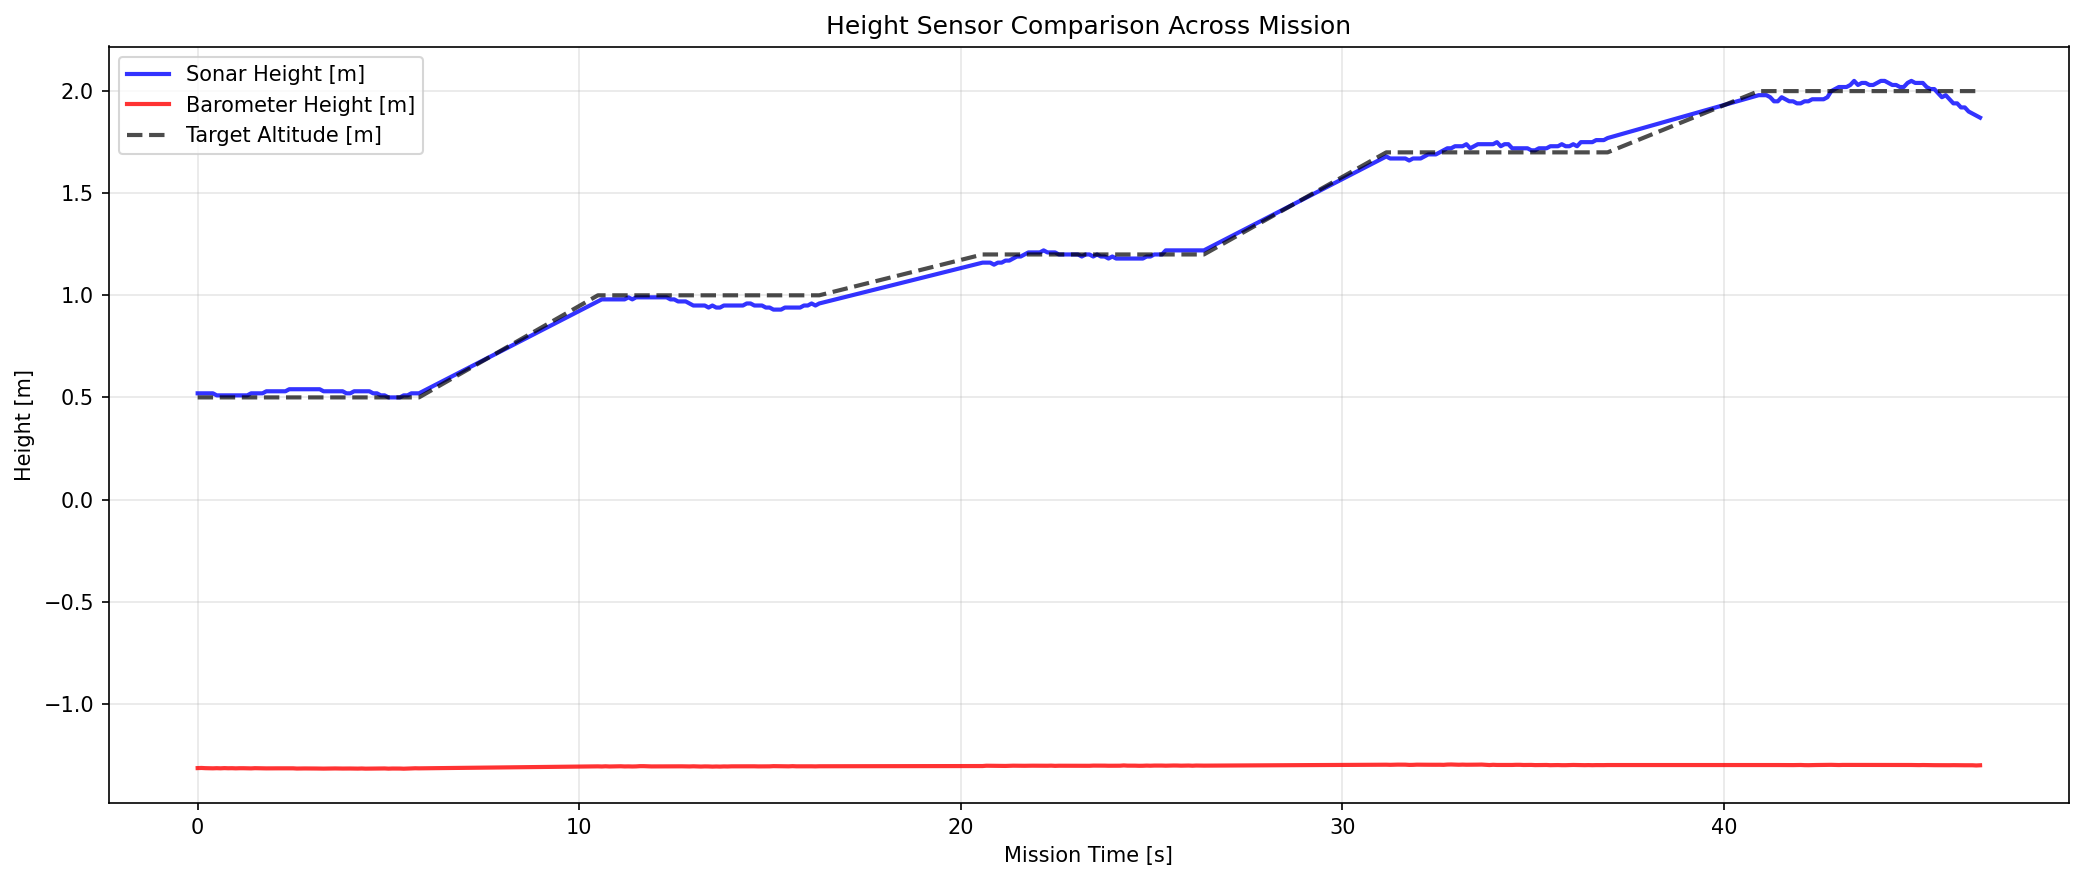
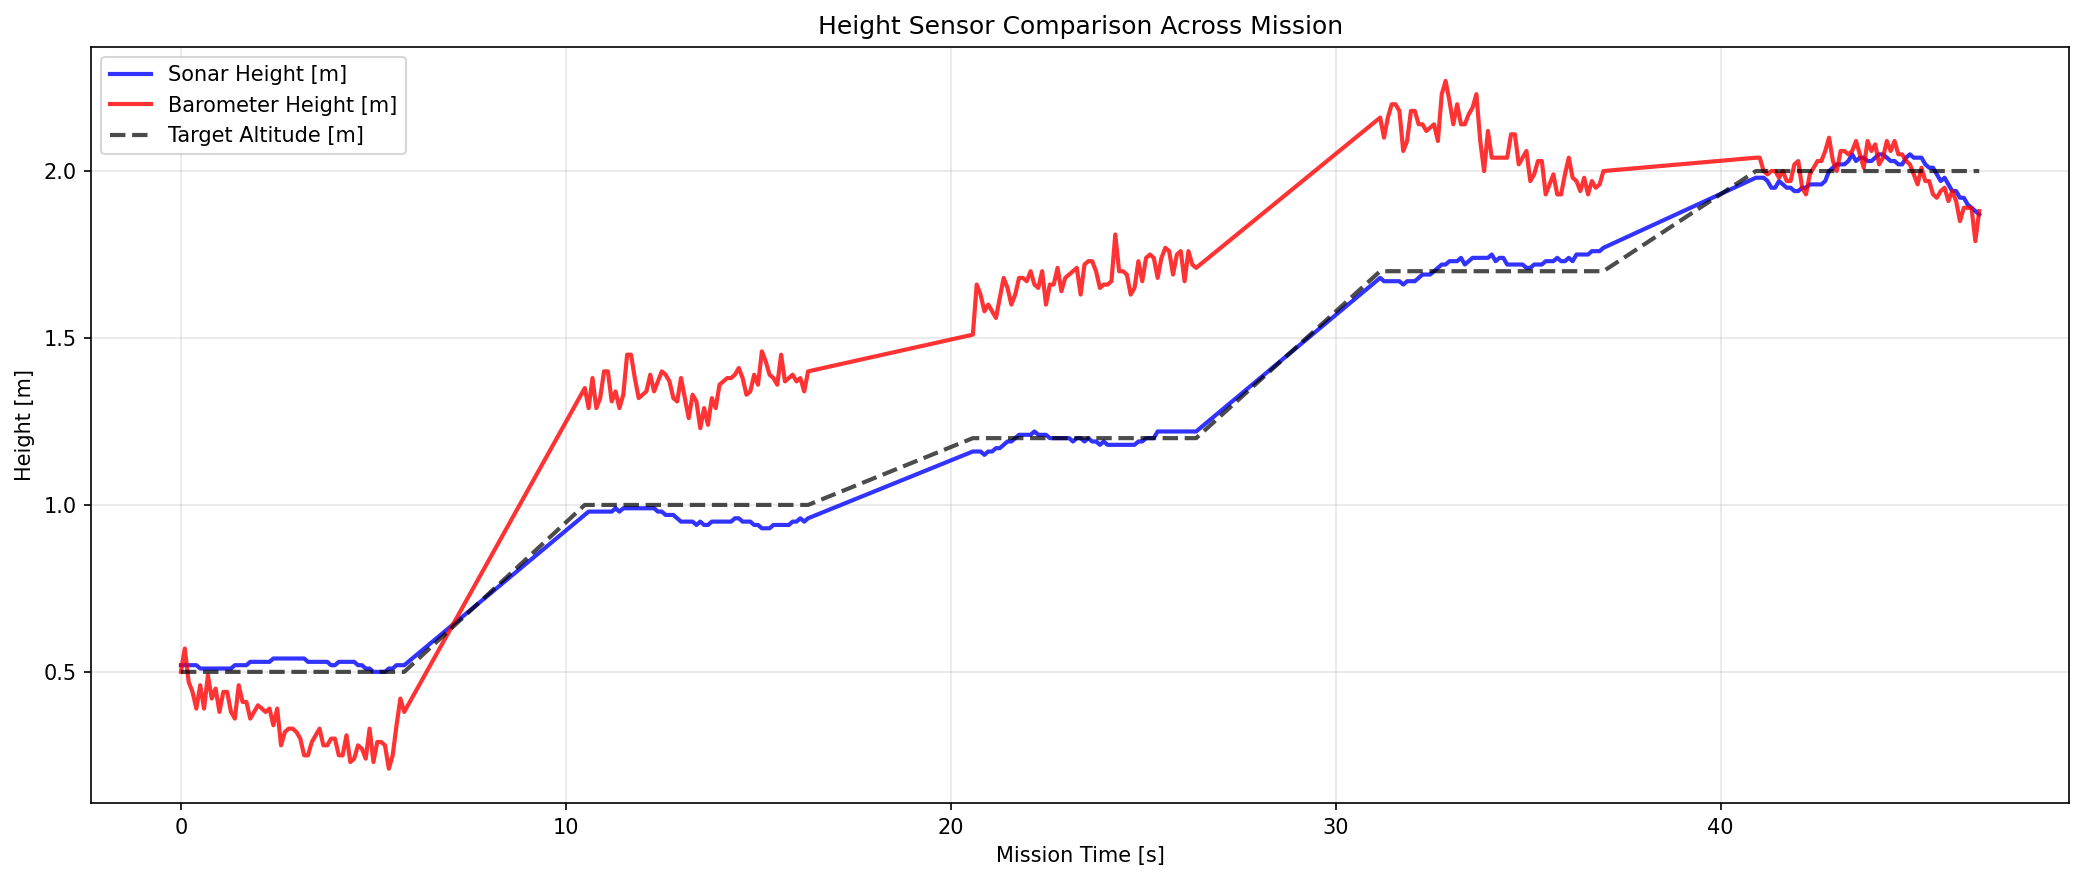
everything should be finsihed now

diff --git a/lab1/analyze_sensor_data.py b/lab1/analyze_sensor_data.py
@@ -74,15 +74,14 @@ def calculate_noise_level(signal, detrend_window=None):
             window_size = signal_length // 10
         else:
             window_size = detrend_window
-        padded_signal = np.zeros((100,))
-        padded_signal = np.append(padded_signal,signal)
-        padded_signal = np.append(padded_signal,np.zeros((100,)))
+        padding = np.zeros((window_size,))
+        padded_signal = np.hstack((padding,signal,padding))
         v = 1/signal_length * np.ones((window_size,))
-        trend = np.convolve(v,signal,'same')
+        trend = np.convolve(v,padded_signal,'same')
 
-        detrended_signal = signal-trend
+        detrended_signal = padded_signal-trend
 
-        return np.std(detrended_signal)
+        return np.std(detrended_signal[window_size:-1-window_size])
 
 
 def calculate_drift_rate(timestamps, signal):
@@ -198,8 +197,41 @@ def compare_height_sensors(height_sonar, height_baro, target_altitudes):
         sonar_rmse: RMS error vs targets for sonar
         baro_rmse: RMS error vs targets for barometer
     """
-    # TODO: Implement sensor comparison
-    return 0.0, 1.0, 0.0, 0.0, 0.0, 0.0
+
+    # remove nans
+    to_remove = []
+    num_sonar_invalid=0
+    num_baro_invalid=0
+    len_sonar = len(height_sonar)
+    len_baro = len(height_baro)
+    for idx, val in enumerate(height_baro):
+        if np.isinf(val):
+            to_remove.append(idx)
+            num_baro_invalid +=1
+
+    for idx, val in enumerate(height_sonar):
+        if np.isinf(val):
+            to_remove.append(idx)
+            num_sonar_invalid+=1
+
+    height_sonar = np.delete(height_sonar, to_remove)
+    height_baro = np.delete(height_baro, to_remove)
+    target_altitudes = np.delete(target_altitudes,to_remove)
+
+    # correlation
+    corr = np.corrcoef(height_sonar,height_baro*100)
+    # bias
+    bias = np.mean(height_baro*100-height_sonar)
+
+    # dropout
+    sonar_dropout = num_sonar_invalid/len_sonar
+    baro_dropout = num_baro_invalid/len_baro
+
+    #RMSE
+    sonar_rmse = np.sqrt(np.mean((height_sonar-target_altitudes)**2))
+    baro_rmse = np.sqrt(np.mean((height_baro*100 - target_altitudes) ** 2))
+
+    return bias, corr[0,1], sonar_dropout, baro_dropout, sonar_rmse, baro_rmse
 
 # ============================================================================
 # PROVIDED: Data loading and plotting code
@@ -226,7 +258,7 @@ def main():
         
         # 3-axis sensor data
         acceleration = np.column_stack([df['ax'].values, df['ay'].values, df['az'].values])
-        velocity = np.column_stack([df['vx'].values, df['vy'].values, df['vz'].values])
+        velocity = np.column_stack([df['vx'].values, df['vy'].values, df['vz'].values])*100
         attitude = np.column_stack([df['roll'].values, df['pitch'].values, df['yaw'].values])
         
         # Height sensors
@@ -323,7 +355,8 @@ def main():
     # ==================== PLOT 4: HEIGHT COMPARISON ====================
     fig, ax = plt.subplots(figsize=(14, 6))
     ax.plot(timestamps, height_sonar, 'b-', label='Sonar Height [m]', linewidth=2, alpha=0.8)
-    ax.plot(timestamps, height_baro, 'r-', label='Barometer Height [m]', linewidth=2, alpha=0.8)
+    ax.plot(timestamps, (height_baro-height_baro[0])*100 + 0.5, 'r-', label='Barometer Height [m]', linewidth=2,
+            alpha=0.8)
     ax.plot(timestamps, target_altitudes, 'k--', label='Target Altitude [m]', linewidth=2, alpha=0.7)
     
     # Add setpoint region backgrounds and labels
@@ -413,7 +446,7 @@ def main():
     # Drift analysis
     print(f"\n--- DRIFT ANALYSIS ---")
     sonar_drift, sonar_r2 = calculate_drift_rate(timestamps, height_sonar)
-    baro_drift, baro_r2 = calculate_drift_rate(timestamps, height_baro)
+    baro_drift, baro_r2 = calculate_drift_rate(timestamps, height_baro*100)
     
     print(f"Sonar height drift:          {sonar_drift:.4f} m/s (R² = {sonar_r2:.3f})")
     print(f"Barometer height drift:      {baro_drift:.4f} m/s (R² = {baro_r2:.3f})")
@@ -438,10 +471,15 @@ def main():
     # TODO
     print(f"\nTODO: Examine the analysis results above and answer these questions:")
     print(f"  1. Which sensors are noisy? Compare noise levels.")
-    print(f" Nothing appears very noisy -- the accelerometer a bit")
+    print(f" The accelerometer and sonar seem quite noisy. Accelerometer might be actual read (hard to tell the \n"
+          f"difference). Sonar noise of ~0.5 m is pretty significant relative to dz steps (~ 0.5 m)")
     print(f"  2. Do you see any drift or bias? Is it significant?")
-    print(f" there is some drift in the altitutde measurement from the sonar which seems on the order of +\- 1cm")
+    print(f" There is a dirft of ~ 4cm/s for both sensors, which seems pretty significant. Additionally,\n "
+          f"the baro bias is pretty extreme (must have been weird high pressure zone the day that this lab section "
+          f"was run)")
     print(f"  3. How do barometer vs sonar compare? Which is more reliable?")
+    print(f"Baro has pretty significant bias but has much less noise. As long as it is calibrated I would use this \n "
+          f"vs. the sonar with the only concern being that baro does not measure height relative to surroundings.")
     print(f"  4. What's the sampling rate? Did we achieve 10 Hz?")
     print(f" figure shows that we are essentially at 10Hz to the 5th decimal place")
     print(f"  5. Which sensor would you recommend for altitude control?")

diff --git a/lab1/performance_comparison.py b/lab1/performance_comparison.py
@@ -446,11 +446,28 @@ def generate_executive_summary(comparison_df, heuristic_metrics, pid_metrics, pi
         f.write("- Has PID outperformed if-else control?\n")
         f.write("- What are the key advantages?\n")
         f.write("- Does this provide competitive advantage?\n\n")
-        
+
+        f.write("The PID control demonstrates much more desireable control characteristics than \n"
+                "the heuristic controller. Most prominantly, the PID controller has a non-infinite settling time \n ("
+                "24s PID vs inf heuristic), final error (0.07m vs 0.48m) and rms error (.18m PID vs .32 heuristic) "
+                "are \n also much improved. In general these represent a controller that is asymptotically stable vs \n"
+                "vs the heuristic controller which oscillates forever until the battery runs out without actually \n"
+                "establishing an altitude.\n"
+                "\n"
+                "The bang-bang controller did have some bright spots. The rise time is much faster than the PID\n"
+                "(.85s vs 3.8s) and the chattering is lower (44 heuristic vs 328 PID). That said chattering \n"
+                "does not tell us the scale of the sign change and some might be very small on the PID controller.\n"
+                "Similarly, the faster rise time is not helpful if the controller does not actually converge to the \n"
+                "desired altitude. \n"
+                "\n"
+                "Ultimately, many of the deficiencies of the PID controller can be tuned depending on the desired\n"
+                "charcteristics of the system while the bang bang controller does not really have any knobts to turn\n"
+                "to make it better.")
         # TODO: Add your recommendation
         f.write("RECOMMENDATION:\n")
         f.write("-" * 14 + "\n")
         f.write("TODO: Should AeroTech proceed with PID-based proposal?\n")
+        f.write("PID controller")
     
     print(f"Executive summary saved to {summary_file}")
     return summary_file

diff --git a/lab1/heuristic_control.py b/lab1/heuristic_control.py
@@ -570,10 +570,19 @@ def analyze_heuristic_performance(csv_filename):
     print(f"\n--- TODO: ANALYZE THE CONTROLLER BEHAVIOR ---")
     print(f"Examine the plots and metrics above, then answer:")
     print(f"  1. Does the system reach and maintain the target altitude?")
+    # system reaches altitude but never really holds it except for happenstance
     print(f"  2. Is the behavior smooth or jerky?")
+    # very jerky
     print(f"  3. Is it stable or oscillatory?")
+    # very oscillatory
     print(f"  4. What causes any oscillations you observe?")
+    # oscillations are caused by the constant overshoot from the bang bang controller. response does not scale with
+    # error and so any small error creates a large response from the controller causing overshoot and a new error.
     print(f"  5. What are the fundamental limitations of this approach?")
+    # while this does 'control' the system it does not differentiate between different types of error or error scale.
+    # For instance, if the altitude error is 0 but the velocity is nonzero, the system is blind to this error until
+    # the altitude error registers in one of the sensors. Additionally, the lack of scaling means that small errors
+    # lead to disproportionately large responses and vice-versa
     print(f"\nWrite your observations in a text file or comments.")
     
     # Save metrics to file
@@ -607,7 +616,8 @@ def main():
     print(f"Test duration: {TEST_DURATION}s")
     
     # Run the heuristic control test
-    csv_filename = run_heuristic_control()
+    # csv_filename = run_heuristic_control()
+    csv_filename = 'Lab1-Phase4-Simple/pid_vs_heuristic_comparison.csv'
     
     if csv_filename:
         # Analyze the collected data

diff --git a/lab1/step_response_calibration.py b/lab1/step_response_calibration.py
@@ -272,7 +272,7 @@ def analyze_step_data(csv_filename):
     
     # Height response
     ax2.plot(mission_time, height_sonar, 'g-', linewidth=1.5, label='Sonar Height [m]', alpha=0.8)
-    ax2.plot(mission_time, height_baro-height_baro[0], 'm-', linewidth=1.5, label='Barometer Height [m]', alpha=0.8)
+    ax2.plot(mission_time, height_baro, 'm-', linewidth=1.5, label='Barometer Height [m]', alpha=0.8)
     ax2.set_xlabel('Mission Time [s]')
     ax2.set_ylabel('Height [m]')
     ax2.set_title('Height Response from Both Sensors')
